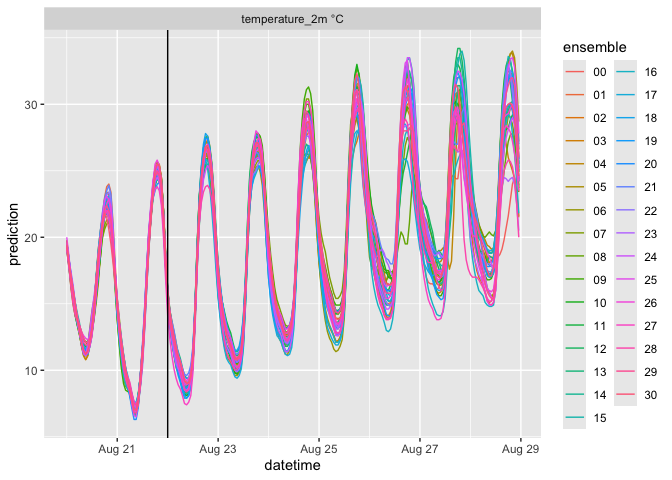
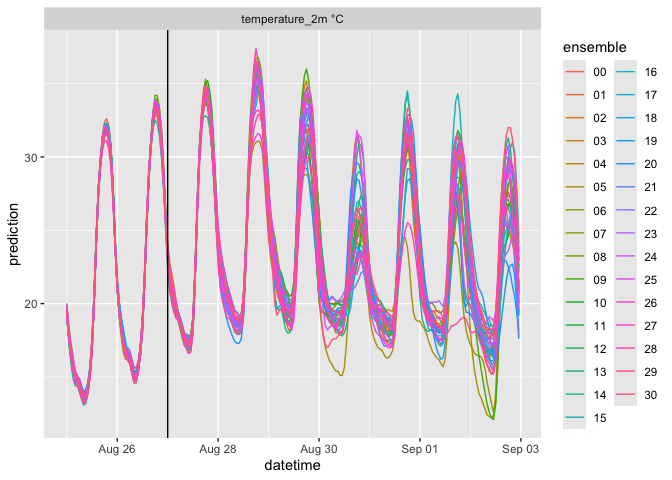
plot in Readme

diff --git a/README.md b/README.md
@@ -1,4 +1,4 @@
-ropenmeteo
+RopenMeteo
 ================
 
 <!-- badges: start -->
@@ -43,12 +43,12 @@ The package uses a long format standard with the following columns
 
 Install the development version from GitHub with:
 
-    devtools::install_github("FLARE-forecast/RopenMeteo")
+    devtools::install_github("FLARE-forecast/ropenmeteo")
 
 ## Quick Start
 
 ``` r
-library(RopenMeteo)
+library(ropenmeteo)
 library(ggplot2)
 library(dplyr)
 ```
@@ -58,7 +58,7 @@ Ensemble forecasts from individual models are available.
 <https://open-meteo.com/en/docs/ensemble-api>
 
 ``` r
-df <- RopenMeteo::get_ensemble_forecast(
+df <- get_ensemble_forecast(
   latitude = 37.30,
   longitude = -79.83,
   forecast_days = 7,
@@ -71,12 +71,12 @@ head(df)
     ## # A tibble: 6 × 8
     ##   datetime            reference_datetime  site_id     model_id ensemble variable
     ##   <dttm>              <dttm>              <chr>       <chr>    <chr>    <chr>   
-    ## 1 2024-08-20 00:00:00 2024-08-22 00:00:00 37.3_-79.83 gfs_sea… 00       tempera…
-    ## 2 2024-08-20 00:00:00 2024-08-22 00:00:00 37.3_-79.83 gfs_sea… 01       tempera…
-    ## 3 2024-08-20 00:00:00 2024-08-22 00:00:00 37.3_-79.83 gfs_sea… 02       tempera…
-    ## 4 2024-08-20 00:00:00 2024-08-22 00:00:00 37.3_-79.83 gfs_sea… 03       tempera…
-    ## 5 2024-08-20 00:00:00 2024-08-22 00:00:00 37.3_-79.83 gfs_sea… 04       tempera…
-    ## 6 2024-08-20 00:00:00 2024-08-22 00:00:00 37.3_-79.83 gfs_sea… 05       tempera…
+    ## 1 2024-08-25 00:00:00 2024-08-27 00:00:00 37.3_-79.83 gfs_sea… 00       tempera…
+    ## 2 2024-08-25 00:00:00 2024-08-27 00:00:00 37.3_-79.83 gfs_sea… 01       tempera…
+    ## 3 2024-08-25 00:00:00 2024-08-27 00:00:00 37.3_-79.83 gfs_sea… 02       tempera…
+    ## 4 2024-08-25 00:00:00 2024-08-27 00:00:00 37.3_-79.83 gfs_sea… 03       tempera…
+    ## 5 2024-08-25 00:00:00 2024-08-27 00:00:00 37.3_-79.83 gfs_sea… 04       tempera…
+    ## 6 2024-08-25 00:00:00 2024-08-27 00:00:00 37.3_-79.83 gfs_sea… 05       tempera…
     ## # ℹ 2 more variables: prediction <dbl>, unit <chr>
 
 The resulting dataframe is in a long format that is easily visualized
